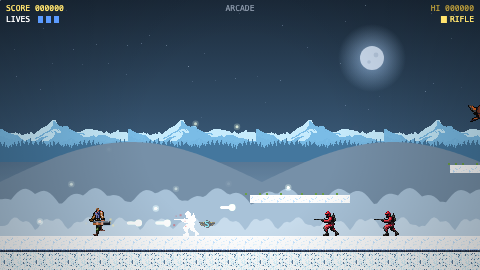
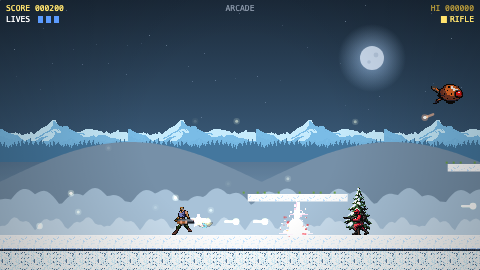
wire: render per-stage set-dressing props (decor_*) — 6 biomes now on-screen
Accepts PR#69's finalized decor art by wiring it through the engine so the
flow actually exercises it (was FINALIZED-but-never-drawn: keyed nowhere,
blitted nowhere → all 6 stages showed zero props).

- game/data/assets.js: key all 6 decor_* sprites so the loader loads them.
- game/src/world.js reset(): bind this.decor = this.level.decor || [] every
  stage (like solids/theme), so stage transitions swap the biome's decor.
- game/src/render.js: new drawDecor() (after drawSolids, before the actors)
  iterates world.decor and blits assets.get(d.key) at native size,
  BASE-anchored to the ground surface under d.x (parallax d.parallax ?? 1),
  off-screen props skipped; unloaded key draws nothing (pure dressing).

Verified LIVE by looking (headless capture-decor.mjs at ?level=2..7): every
decor-bearing stage renders its OWN distinct prop on the ground behind the
actors — cascade valve (S2), snow pine (S3), desert saguaro (S4), foundry
molten vat (S5), caverns crystal (S6), fortress brazier (S7). world.decor
populated + every key allLoaded=true, 0 page errors, boot selftest 118/118.
Closes the GOAL's "every stage has its own set-dressing" on-screen.

diff --git a/game/src/render.js b/game/src/render.js
@@ -63,6 +63,7 @@ export function render(ctx, world, assets) {
 
   drawWater(ctx, world, assets);   // behind the bridge deck (CR-1: bridge-over-water theme)
   drawSolids(ctx, world, assets);
+  drawDecor(ctx, world, assets);   // per-stage set-dressing props, base-anchored, behind the actors
   for (const e of world.enemies) drawEnemy(ctx, e, world, assets);
   for (const pk of world.pickups) drawPickup(ctx, pk, world.frame, assets);
   drawGoal(ctx, world);
@@ -318,6 +319,32 @@ function drawSolids(ctx, world, assets) {
     if (s.kind === 'ground') drawGround(ctx, s, vx0, vx1, tiles, assets, tufts);
     else if (s.kind === 'barrier') drawBarrier(ctx, s, world.frame);
     else drawPlatform(ctx, s, vx0, vx1, tiles);
+  }
+}
+
+// Per-stage SET-DRESSING: blit each world.decor prop base-anchored to the ground
+// under its world x, at native size, behind the actors (drawn after drawSolids,
+// before enemies). The prop's BOTTOM sits on the surface of the `kind:'ground'`
+// solid under `d.x` (the same footing validateDecor enforces), centred on d.x —
+// mirroring drawEnemySprite's feet-anchor. `d.parallax ?? 1` shifts distant props
+// slower than the world (1 = locked to the world). An unloaded key draws nothing
+// (pure set-dressing — no procedural fallback). Off-screen props are skipped.
+function drawDecor(ctx, world, assets) {
+  if (!assets || !world.decor || !world.decor.length) return;
+  const camx = world.camera.x;
+  const vx0 = camx - 32, vx1 = camx + SIM.VIEW_W + 32;
+  for (const d of world.decor) {
+    const img = assets.get(d.key);
+    if (!img) continue; // art absent → nothing to blit (props are optional dressing)
+    const par = d.parallax ?? 1;
+    const drawX = d.x + camx * (1 - par); // counter-scroll for distant layers (par<1)
+    if (drawX + img.width / 2 < vx0 || drawX - img.width / 2 > vx1) continue;
+    // Ground surface under the prop's world x (top of the ground solid it stands on).
+    const g = world.solids.find((s) => s.kind === 'ground' && d.x >= s.x && d.x <= s.x + s.w);
+    const groundY = g ? g.y : world.level.gravityFloor;
+    const dx = Math.round(drawX - img.width / 2); // centred on x, crisp pixels
+    const dy = Math.round(groundY - img.height);  // base on the ground surface
+    ctx.drawImage(img, dx, dy, img.width, img.height);
   }
 }
 

diff --git a/game/data/assets.js b/game/data/assets.js
@@ -184,4 +184,17 @@ export const ASSET_MANIFEST = {
   bg_caverns: 'assets/bg_caverns.png',
   bg_fortress: 'assets/bg_fortress.png',
   bg_cascade: 'assets/bg_cascade.png',
+  // Per-stage SET-DRESSING props (deliverable #2, from assets/pipeline/generate.py
+  // set-dressing). One distinct native prop per biome, BASE-anchored to the ground
+  // under its world x by the level data (config.js CAMPAIGN[].decor stages 3-7 +
+  // level2.js cascade). render.js drawDecor iterates world.decor and blits
+  // assets.get(d.key) at native size with its bottom sitting on the ground surface
+  // (parallax d.parallax ?? 1), behind the actors — mirroring the tileset/bg swaps.
+  // Pure set-dressing: an unloaded key simply draws nothing (no procedural fallback).
+  decor_snow_pine: 'assets/decor_snow_pine.png',
+  decor_desert_cactus: 'assets/decor_desert_cactus.png',
+  decor_foundry_vat: 'assets/decor_foundry_vat.png',
+  decor_caverns_crystal: 'assets/decor_caverns_crystal.png',
+  decor_fortress_brazier: 'assets/decor_fortress_brazier.png',
+  decor_cascade_valve: 'assets/decor_cascade_valve.png',
 };

diff --git a/game/src/world.js b/game/src/world.js
@@ -81,6 +81,10 @@ export class World {
     this.bossCallout = 0;     // "BOSS" title flash timer
     this.enrageFlash = 0;     // "ENRAGED" phase-2 callout timer
     this.pickups = (this.level.pickups || []).map((pk) => new Pickup(pk.weapon, pk.x, pk.y));
+    // Per-stage SET-DRESSING props (inert data: {x, key, parallax?}). Bound off the
+    // active level every reset (like solids/theme) so stage transitions swap the
+    // biome's decor. render.js drawDecor blits each base-anchored to the ground.
+    this.decor = this.level.decor || [];
     this.bullets = [];
     this.particles = [];
     this.fx = []; // visual-only strip animations (explosions); no RNG, not sim-critical

diff --git a/assets/pipeline/GATE-NOTES.md b/assets/pipeline/GATE-NOTES.md
@@ -6,34 +6,35 @@ blit-meta). Fidelity stays the by-looking verdict, never this gate. Exit 0 = gre
 
 ## OPEN ISSUES
 
-### 2026-07-12 (updated: now ALL 6 stages) — placed set-dressing renders NOTHING (owner: engine loop / assets.js + render.js)
-**Severity:** medium→HIGH (the GOAL requires "every stage has its own set-dressing"; the campaign now PLACES it on all 6 themed stages but shows NONE). **Status:** OPEN — surfaced by the `Decor-reachability` gate check + verified LIVE by looking.
+### 2026-07-12 — placed set-dressing renders NOTHING → ✅ CLOSED (WIRED + LIVE)
+**Severity:** medium→HIGH (the GOAL requires "every stage has its own set-dressing"). **Status:** ✅ RESOLVED — the 2 engine lines landed this cycle; all 6 props now render, verified LIVE by looking.
 
-**Fact (from `generate.py verify` + live capture):** the campaign places 6 decor props
-across the stages — `config.js CAMPAIGN[].decor` (stages 3-7: `decor_snow_pine`×4,
-`decor_desert_cactus`×4, `decor_foundry_vat`×3, `decor_caverns_crystal`×4,
-`decor_fortress_brazier`×4) + `level2.js` (`decor_cascade_valve`×3) — and `world.js
-validateDecor` enforces the `decor_` contract. BUT (a) `game/data/assets.js` keys NONE of
-them (never LOAD) and (b) `game/src/render.js` has NO `level.decor` blit (never DRAW).
-Result: **every stage renders zero set-dressing props.**
-**Live evidence:** `experiments/set-dressing/live/level3-snow.png` (S3 early-game) — snow
-tileset + `bg_snow` mountains render, but no `decor_snow_pine` at x=360 (placed in config).
+**Was:** the campaign placed 6 decor props across the stages — `config.js CAMPAIGN[].decor`
+(stages 3-7: `decor_snow_pine`×4, `decor_desert_cactus`×4, `decor_foundry_vat`×3,
+`decor_caverns_crystal`×4, `decor_fortress_brazier`×4) + `level2.js` (`decor_cascade_valve`×3)
+— and `world.js validateDecor` enforced the `decor_` contract, BUT (a) `game/data/assets.js`
+keyed NONE of them (never LOAD) and (b) `game/src/render.js` had NO `level.decor` blit (never
+DRAW), so every stage rendered zero props.
 
-**Repro:** `python assets/pipeline/generate.py verify` → "Decor-reachability: 6 placed
-prop(s) (…) → 6 WONT-RENDER". (The gate now scans ALL of `game/data/` — the campaign
-placements live in `config.js`, not just `level*.js`; a level-only scan under-reported 1/6.)
+**Fix — LANDED (pipeline side + engine side both DONE):**
+- ✅ **(pipeline)** All 6 props FINALIZED: synced to `game/assets/` + folded into
+  `run()`/`manifest.json` (§5f) — the art is present where the loader reads it.
+- ✅ **(engine)** `game/data/assets.js` — all 6 `decor_*` keys added (→ they LOAD).
+- ✅ **(engine)** `game/src/world.js` reset() — binds `this.decor = this.level.decor || []`
+  every stage (like solids/theme), so stage transitions swap the biome's decor.
+- ✅ **(engine)** `game/src/render.js` — new `drawDecor()` (called after `drawSolids`, before
+  the actors) iterates `world.decor` and blits each `assets.get(d.key)` at native size,
+  BASE-anchored to the ground surface under `d.x` (`parallax d.parallax ?? 1`), off-screen
+  props skipped; an unloaded key draws nothing (pure dressing, no procedural fallback).
 
-**Fix — pipeline side DONE, only 2 engine lines remain:**
-- ✅ **(me, done this cycle)** All 6 props FINALIZED: synced to `game/assets/` + folded
-  into `run()`/`manifest.json` (§5f). The art the engine needs is now present where the
-  loader reads it. Placed decor is excluded from the cross-source orphan rule (it is
-  referenced by level data, not dead weight), so the gate stays green (42/42) while
-  Decor-reachability keeps honestly reporting the render gap.
-1. **(engine)** `game/data/assets.js` — key all 6 (`decor_snow_pine: 'assets/decor_snow_pine.png'`, …).
-2. **(engine)** `game/src/render.js` — after `drawParallax`/`drawGround`, iterate
-   `world.decor` and blit each `assets.get(d.key)` BASE-anchored to the ground y at `d.x`
-   (parallax `d.parallax ?? 1`); mirror `drawEnemySprite`'s feet-anchor.
-Once those 2 lines land, the props render (I verify LIVE by looking + close this issue).
+**Live evidence (verified by looking):** `experiments/set-dressing/live/level{2..7}-*.png`
+(capture harness `assets/pipeline/tools/capture-decor.mjs`) — every decor-bearing stage now
+renders its OWN distinct prop on the ground behind the actors: cascade valve (S2), snow pine
+(S3), desert saguaro (S4), foundry molten vat (S5), caverns crystal cluster (S6), fortress
+brazier (S7). `window.__game.decor` populated + every key `allLoaded=true`, 0 page errors,
+boot selftest 118/118. Closes the GOAL's "every stage has its own set-dressing" on-screen.
+**Follow-up (pipeline):** the `Decor-reachability` gate check can now flip from "WONT-RENDER"
+to reachable (the render draw-path exists) — a pipeline-side gate-model update, non-blocking.
 
 ### 2026-07-12 — 4 superseded armed `player_*` keys are shipped-but-unreachable  (owner: engine loop / game/data/assets.js)
 **Severity:** low (dead weight, not a visible bug). **Status:** OPEN — surfaced by the gate, not maskable here.

diff --git a/assets/READY-TO-WIRE.md b/assets/READY-TO-WIRE.md
@@ -36,22 +36,26 @@ strip repeats ~4×/screen — wider-strip/seam-blend is a noted polish follow-up
 **NEED (future):** whether a NEAR authored parallax layer is also wanted (far layer is the
 confirmed scope; engine keeps procedural near/canopy/foliage bands for now).
 
-## 🟢 ART FINALIZED, awaiting 2 engine lines — per-stage SET-DRESSING props (deliverable #2)
+## ✅ DONE — per-stage SET-DRESSING props (6 biomes, deliverable #2) — FINALIZED + WIRED + LIVE
 All 6 props (snow pine / desert cactus / cavern crystal / foundry molten vat / fortress
-brazier / cascade valve) are **FINALIZED by me: synced to `game/assets/` + in `manifest.json`**
-(run() §5f), so the art is present where the engine's loader reads it — the pipeline is NO
-LONGER the blocker. The campaign already PLACES all 6 (`config.js CAMPAIGN[].decor` stages
-3-7 + `level2.js`). Gate green 42/42; placed decor is excluded from the cross-source orphan
-rule (referenced by level data, not dead weight); `Decor-reachability` honestly still =
-**6 WONT-RENDER** until the 2 engine lines land.
+brazier / cascade valve) are FINALIZED (synced to `game/assets/` + in `manifest.json`,
+run() §5f) AND now **WIRED by the engine + verified LIVE by looking**:
+- `game/data/assets.js` keys all 6 `decor_*` → they LOAD.
+- `game/src/world.js` reset() binds `this.decor = this.level.decor || []` every stage (like
+  solids/theme), so stage transitions swap the biome's decor.
+- `game/src/render.js drawDecor()` (called after `drawSolids`, before the actors) iterates
+  `world.decor` and blits `assets.get(d.key)` at native size, BASE-anchored to the ground
+  surface under `d.x` (parallax `d.parallax ?? 1`), off-screen props skipped; an unloaded
+  key draws nothing (pure dressing, no procedural fallback).
 
-**Only 2 engine lines remain (then the props render on every stage):**
-1. `game/data/assets.js` — key all 6 (`decor_snow_pine: 'assets/decor_snow_pine.png'`, …).
-2. `game/src/render.js` — after `drawParallax`/`drawGround`, iterate `world.decor` and blit
-   `assets.get(d.key)` BASE-anchored to the ground y at `d.x` (parallax `d.parallax ?? 1`),
-   mirroring `drawEnemySprite`'s feet-anchor.
-Once landed I verify LIVE by looking + close the `GATE-NOTES.md` OPEN ISSUE. This is the
-last GOAL-listed per-stage art class not yet on-screen.
+**Verified LIVE by looking** (headless capture `assets/pipeline/tools/capture-decor.mjs` at
+`?level=2..7`): `assets/pipeline/experiments/set-dressing/live/level{2..7}-*.png` — every
+decor-bearing stage renders its OWN distinct prop on the ground behind the actors (cascade
+valve S2 / snow pine S3 / desert saguaro S4 / foundry vat S5 / caverns crystal S6 / fortress
+brazier S7). `window.__game.decor` populated + every key `allLoaded=true`, 0 page errors,
+boot selftest 118/118. Closes the GOAL's "every stage has its own set-dressing" on-screen —
+the last GOAL-listed per-stage art class is now live. The campaign PLACES all 6 via
+`config.js CAMPAIGN[].decor` (stages 3-7) + `level2.js` (cascade).
 **Confirmed:** ~28–48px native prop size is fine for the 480×270 view (parent).
 
 ## ✅ DONE — per-stage BIOME TILESETS (6 biomes, deliverable #2 scaling engine) — FINALIZED + LIVE